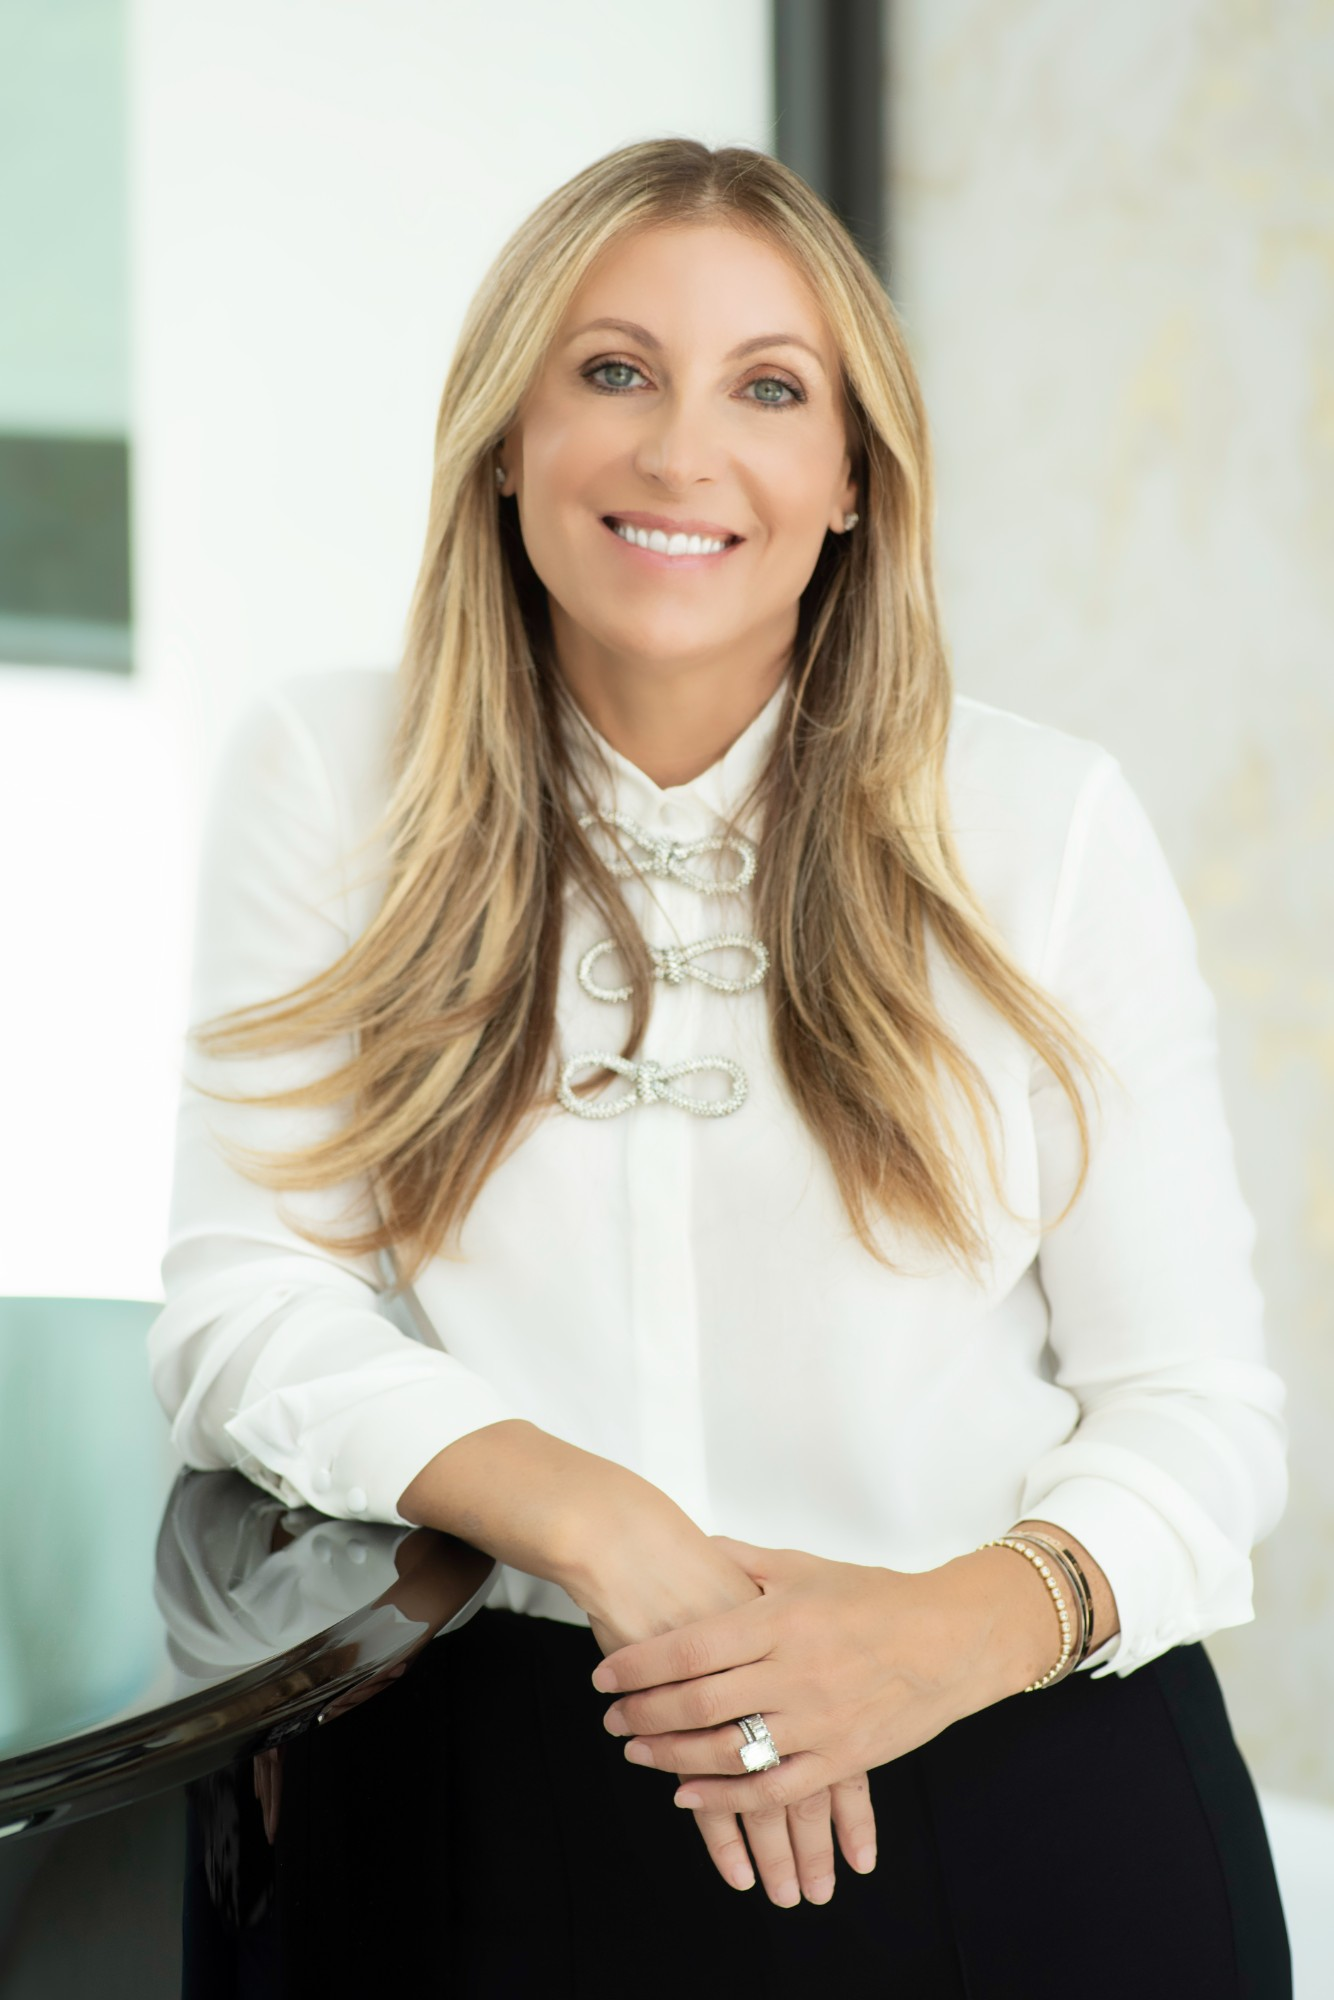
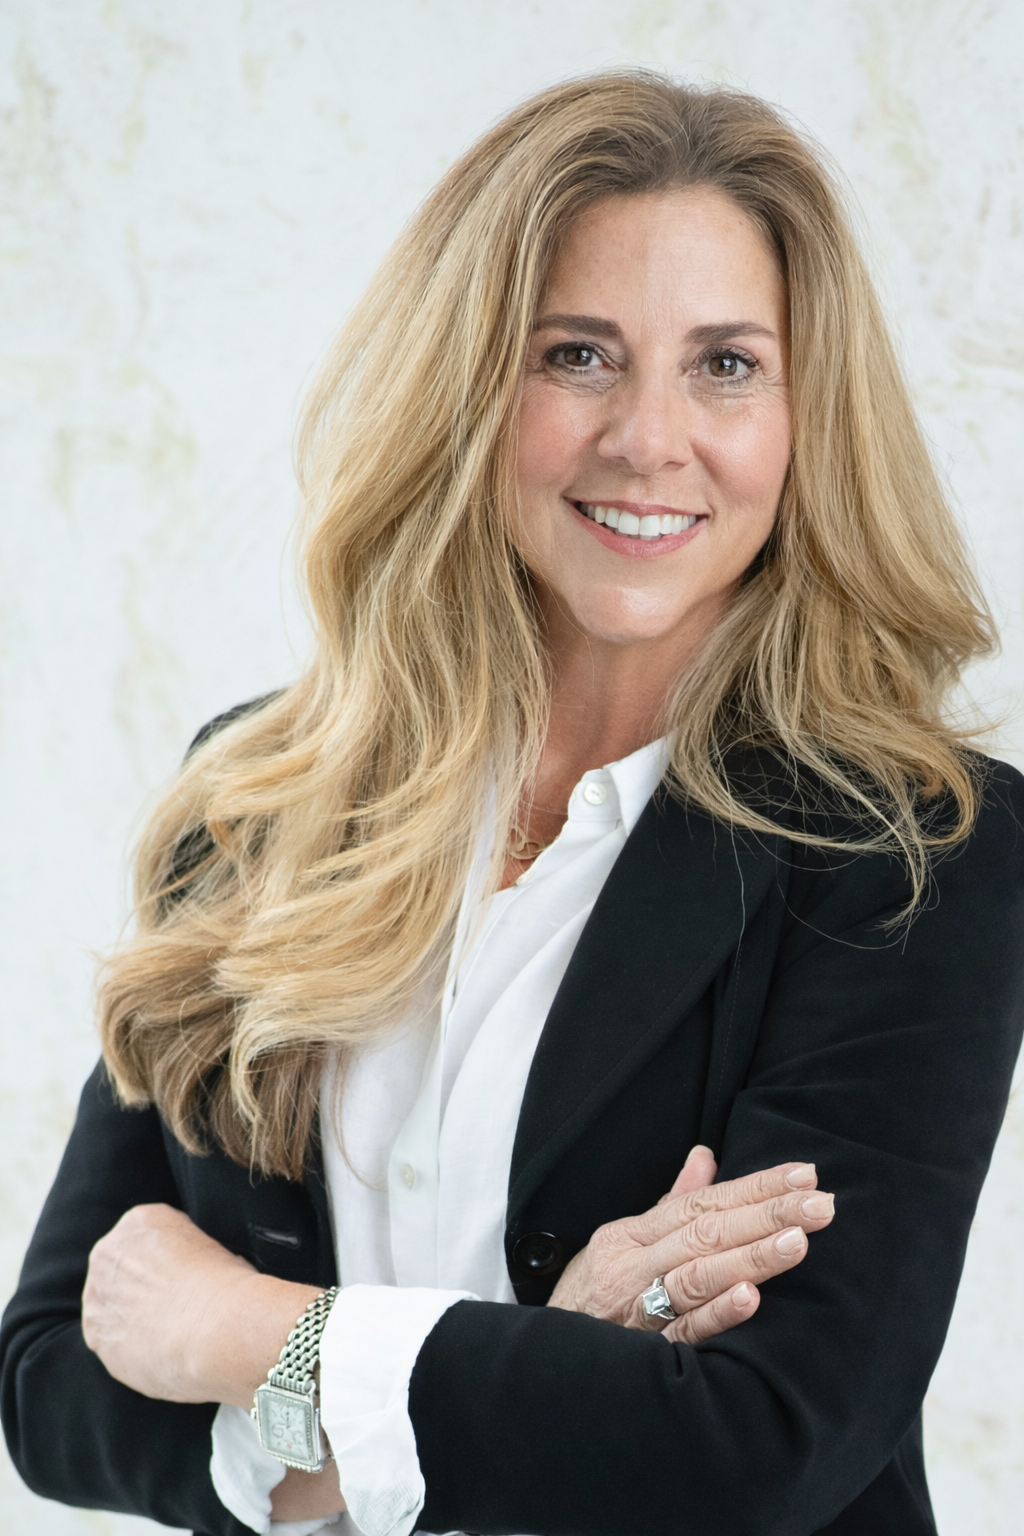
Swap in Dina hero composite + Dina headshot; reorder community grid to lead with Seven Bridges

diff --git a/newsletter.html b/newsletter.html
@@ -130,8 +130,12 @@
 
             <table role="presentation" width="100%" cellpadding="0" cellspacing="0" border="0" style="font-size:12px;">
               <tr>
-                <td width="50%" style="padding:6px 4px;border-bottom:1px solid #f0f0f0;color:#333;">Polo Club</td>
-                <td width="50%" align="right" style="padding:6px 4px;border-bottom:1px solid #f0f0f0;color:#1a3e5c;font-weight:600;">9 / 35</td>
+                <td width="50%" style="padding:6px 4px;border-bottom:1px solid #f0f0f0;"><strong style="color:#c8102e;">Seven Bridges</strong></td>
+                <td width="50%" align="right" style="padding:6px 4px;border-bottom:1px solid #f0f0f0;color:#1a3e5c;font-weight:600;">8 / 12</td>
+              </tr>
+              <tr>
+                <td style="padding:6px 4px;border-bottom:1px solid #f0f0f0;color:#333;">Polo Club</td>
+                <td align="right" style="padding:6px 4px;border-bottom:1px solid #f0f0f0;color:#1a3e5c;font-weight:600;">9 / 35</td>
               </tr>
               <tr>
                 <td style="padding:6px 4px;border-bottom:1px solid #f0f0f0;color:#333;">St. Andrews CC</td>
@@ -152,10 +156,6 @@
               <tr>
                 <td style="padding:6px 4px;border-bottom:1px solid #f0f0f0;color:#333;">The Bridges</td>
                 <td align="right" style="padding:6px 4px;border-bottom:1px solid #f0f0f0;color:#1a3e5c;font-weight:600;">9 / 11</td>
-              </tr>
-              <tr>
-                <td style="padding:6px 4px;border-bottom:1px solid #f0f0f0;"><strong style="color:#c8102e;">Seven Bridges</strong></td>
-                <td align="right" style="padding:6px 4px;border-bottom:1px solid #f0f0f0;color:#1a3e5c;font-weight:600;">8 / 12</td>
               </tr>
               <tr>
                 <td style="padding:6px 4px;border-bottom:1px solid #f0f0f0;color:#333;">Boca Grove</td>
